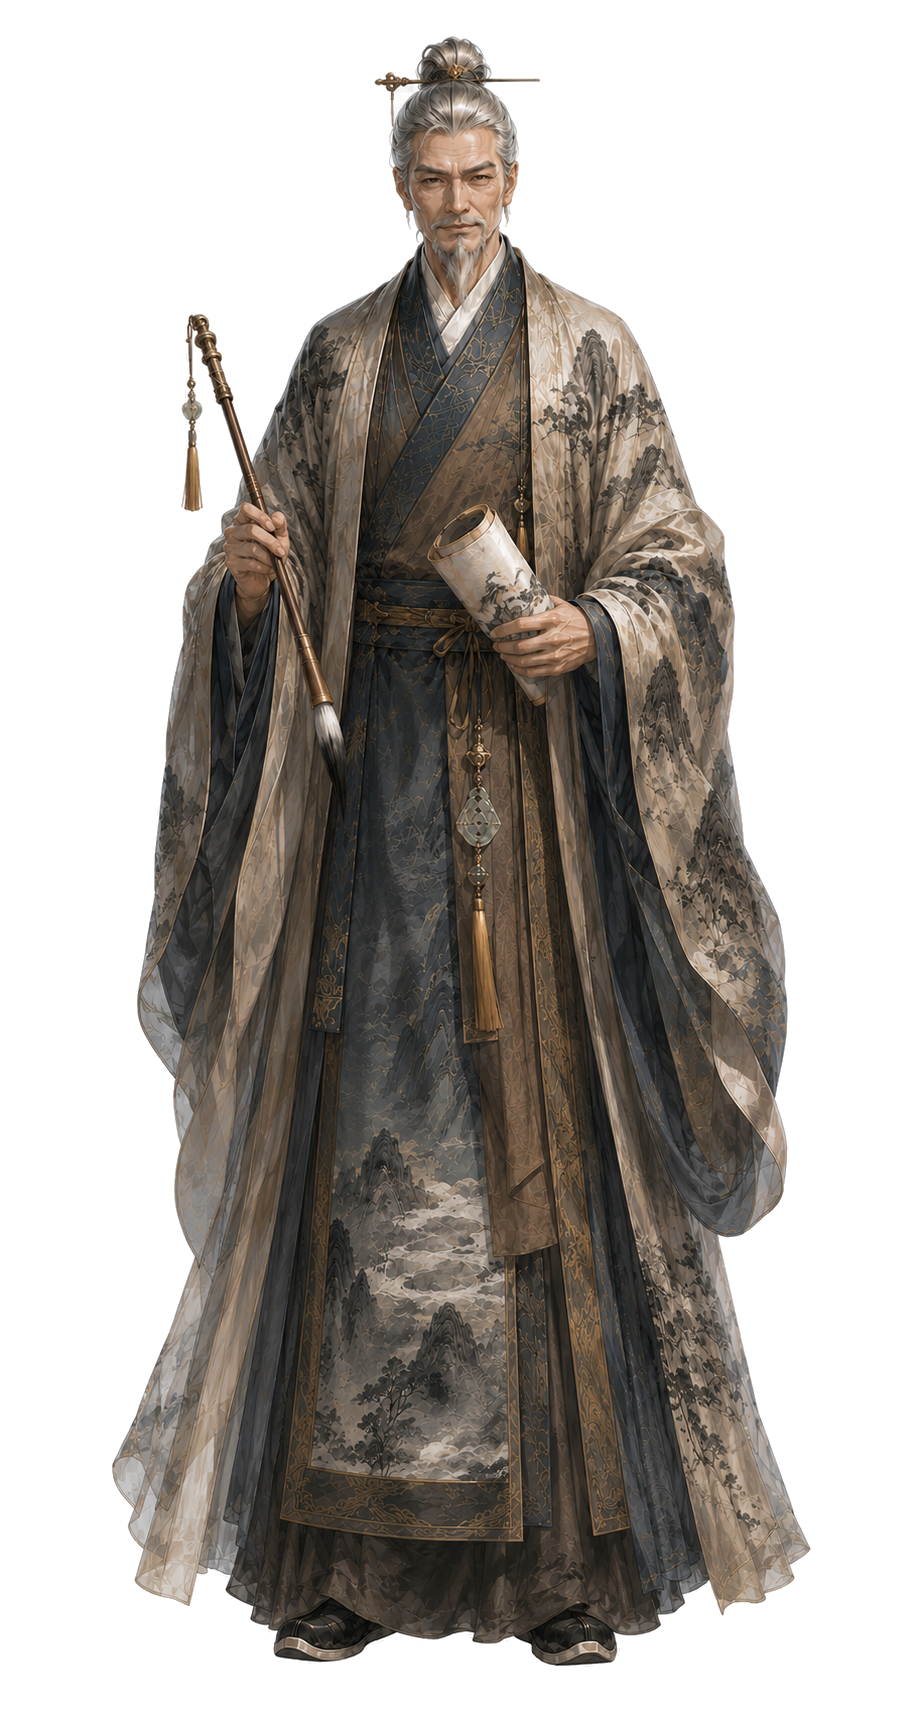
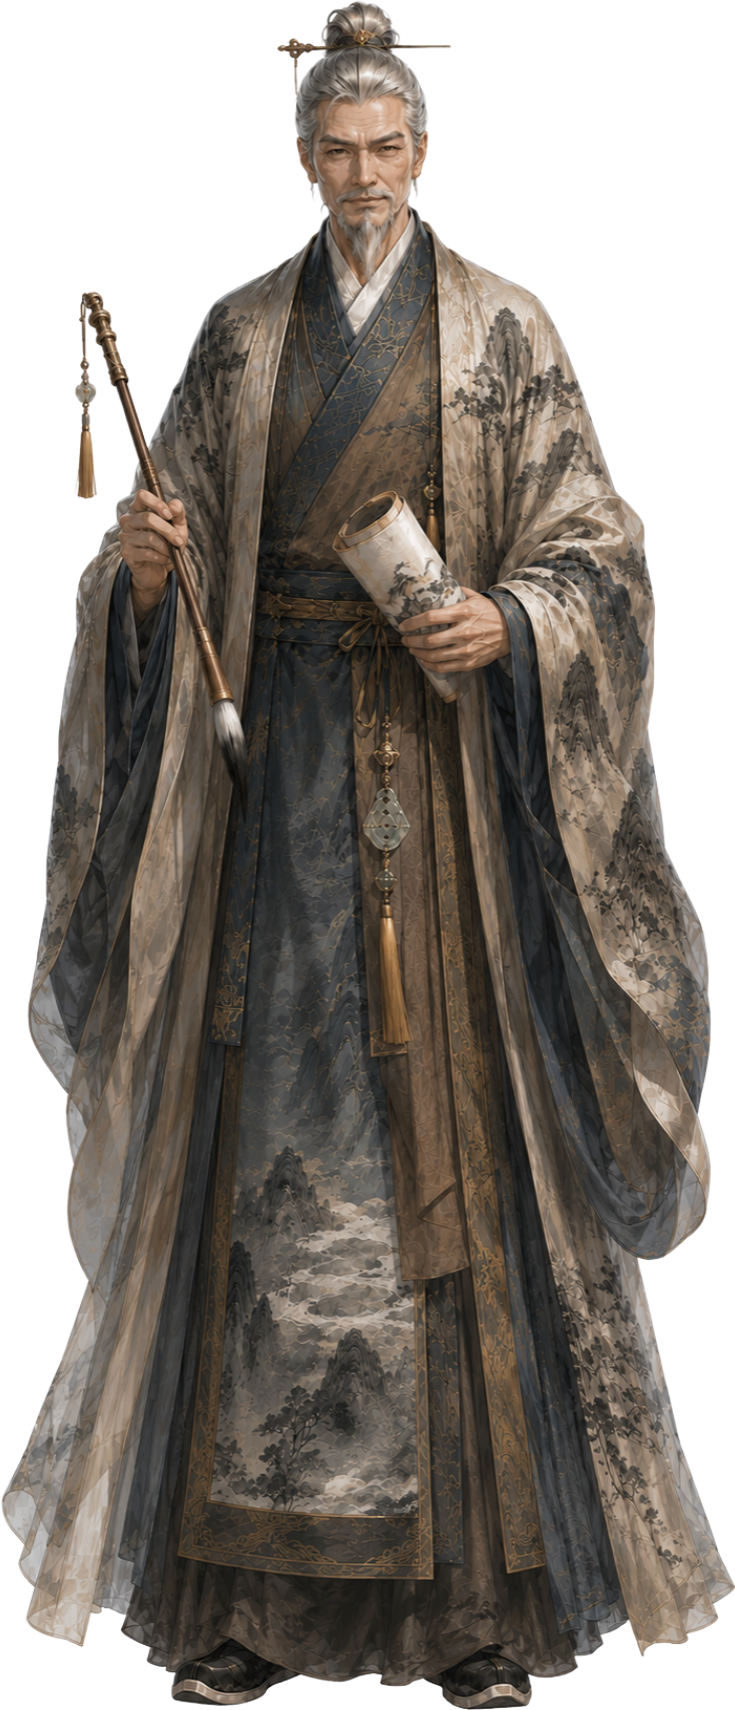
史实化名(宣和→宣合/汴京→大梁京全量+两prompt硬约束,scene v27/dialogue v13重启proxy)+引语页免责小字+李唐择端透明底全身像替换（2026-07-09）

diff --git a/workspaces/danqingyuan-mvp/src/content/tutorialScripts.ts b/workspaces/danqingyuan-mvp/src/content/tutorialScripts.ts
@@ -57,7 +57,7 @@ const MAJOR_MENTOR_FULL: Record<SkillId, string> = {
 const MAJOR_LINE_BY_STYLE: Record<SkillId, string> = {
   landscape: '你本科是山水，正是总教习李唐先生亲自带——好造化，戒尺也离得近，自己掂量。',
   figure: '你本科是人物，往后多在嵩先生跟前用功便是，他最看重肯下笨功夫的学子。',
-  architecture: '你本科是界画，择端先生为人随和，不懂只管问，他能从一根椽子讲到半座汴京。',
+  architecture: '你本科是界画，择端先生为人随和，不懂只管问，他能从一根椽子讲到半座大梁京。',
 };
 
 /** 入院小书童介绍：画院背景 → 作息课表 → 三导师 + 特招讲师希孟 → 入学目标 → 去排课表 */
@@ -73,7 +73,7 @@ function buildShutongAdmissionScript(styleOrigin: SkillId): GuideScript {
       '晨课的课业由你自排六日，呈给总教习过目。第七日是丹青试——考砸了，可没处哭去。',
       '教习有三位。总教习李唐先生，山水、画理都是他亲授，戒尺不认生人，课上别打瞌睡。',
       '人物课是嵩先生——一位中年画师，画人的功夫院里没几个及得上，眼睛毒得很。',
-      '界画课是择端先生，整日往街市跑，桥梁屋宇过目不忘，他课上能听见半个汴京的新鲜事。',
+      '界画课是择端先生，整日往街市跑，桥梁屋宇过目不忘，他课上能听见半个大梁京的新鲜事。',
       MAJOR_LINE_BY_STYLE[styleOrigin],
       '对了，院里还有位特招的讲师，唤作希孟。不授课，常独自待在书房画自己的画——等你去书房，兴许就遇上了。',
       '七日后丹青试见真章。想站稳脚跟，先把课表排明白——走，我领你去。',

diff --git a/workspaces/danqingyuan-mvp/src/components/ProloguePage.tsx b/workspaces/danqingyuan-mvp/src/components/ProloguePage.tsx
@@ -11,7 +11,7 @@ interface ProloguePageProps {
  * → 片尾定格 → 穿越引语逐行浮现落印。视频用用户手势解锁带声播放；引语背景用视频抽帧静帧。
  */
 const PROLOGUE_LINES = [
-  '宣和年间，汴京。',
+  '宣合年间，大梁京。',
   '后世传说中最繁华的盛世——也是史册不肯细说的前夜。',
   '你本是千年之后的人，一梦醒来，成了即将入院的丹青学生。',
   '心底却压着一桩说不清的悬念：这满城锦绣之下，仿佛有什么，正被悄悄抹去。',
@@ -143,6 +143,7 @@ export function ProloguePage({ onContinue }: ProloguePageProps) {
       <p className={`prologue-hint${verseDone ? ' prologue-hint-in' : ''}`}>
         {verseDone ? '点击继续 · 填写入院名录' : '点击跳过'}
       </p>
+      <p className="prologue-disclaimer">以古为幕，故事杜撰，仅供游玩消遣</p>
     </main>
   );
 }

diff --git a/workspaces/danqingyuan-mvp/src/app/App.tsx b/workspaces/danqingyuan-mvp/src/app/App.tsx
@@ -91,10 +91,10 @@ import '../styles/app.css';
 
 const llmAdapter = createLlmAdapter();
 
-const SCENE_PROMPT_VERSION = 'scene_narrator@2026-07-07.v26';
+const SCENE_PROMPT_VERSION = 'scene_narrator@2026-07-09.v27';
 const MAINLINE_PROMPT_VERSION = 'mainline_planner@2026-06-30.v2';
 /** 角色对白 prompt 版本（前后端须一致，2026-06-30 v7 加结局见希孟预热指引） */
-const DIALOGUE_PROMPT_VERSION = 'character_dialogue@2026-07-06.v12';
+const DIALOGUE_PROMPT_VERSION = 'character_dialogue@2026-07-09.v13';
 
 /** VN 逐句（2026-06-30）：取 LLM segments，无则把整段正文当一个旁白单元兜底 */
 function buildSegments(output: { segments?: SceneSegment[]; narrativeText: string }): SceneSegment[] {

diff --git a/workspaces/danqingyuan-mvp/src/engine/ambience.ts b/workspaces/danqingyuan-mvp/src/engine/ambience.ts
@@ -81,7 +81,7 @@ export function getWeatherLabel(day: number, weatherWeek?: string[]): string {
 
 /**
  * 「繁华与黑暗的交织」主题暗线节拍（按日递进）：
- * 表面是半架空的汴京繁华与人情味，底下逐日显出阴影与不公；后两日并隐隐透出亡国前奏。
+ * 表面是半架空的大梁京繁华与人情味，底下逐日显出阴影与不公；后两日并隐隐透出亡国前奏。
  * 写作器每场景至多轻点一笔，不得说破结论（尤其不得明说将要亡国/被外敌攻破）。
  * 半架空：可写"北边""花石的船""乡间的乱子"等，**不出现金/辽/徽宗/靖康等真实名号**。
  */

diff --git a/workspaces/danqingyuan-mvp/src/styles/app.css b/workspaces/danqingyuan-mvp/src/styles/app.css
@@ -4901,6 +4901,17 @@ dd {
   color: rgba(80, 58, 36, 0.75);
 }
 
+/* 底部免责小字（穿越引语页） */
+.prologue-disclaimer {
+  position: absolute;
+  bottom: 18px;
+  z-index: 1;
+  margin: 0;
+  font-size: 11px;
+  letter-spacing: 0.16em;
+  color: rgba(90, 68, 44, 0.55);
+}
+
 .prologue-seal {
   display: block;
   width: 66px;

diff --git a/workspaces/docs/plans/2026-07-09b-danqingyuan-v2-changelog.md b/workspaces/docs/plans/2026-07-09b-danqingyuan-v2-changelog.md
@@ -54,3 +54,9 @@
 1. **入院·小书童来迎页恢复原样**：明明不要卷轴迎帖版（书童偏左、卷轴偏右不平衡），AdmissionTransition + `.adm-transition-*` CSS 回退到原「居中卡片」版（书童全身像 + 标题 + 引文 + 随小书童入院按钮），删卷轴/入场动画/朱印相关。
 2. **入院引导弹窗（GuideDialogue）**：①首句去掉"诶——你就是今日新来的学子罢？"（保留"我是院里的小书童…"）；②介绍三位导师时**背景居中弹出对应导师全身立绘**（李唐/嵩/择端，不含希孟）——GuideScript 加 `lineImages`（行号→图），本科句(行7)按 styleOrigin 弹本科导师；GuideDialogue 渲染 `.gd-mentor`(垂直水平居中、框后、淡入)。导师全身立绘 litang/song/zeduan 拷入 public/char（litang/zeduan 原白底，flood-fill 从边缘去白保留内部衣袍，song 本就透明）。
 - 重验 build✅ + 三导师图 200。
+
+## 九、再追加（明明看图反馈四，同日）
+1. **史实化名**：`宣和`→`宣合`、`汴京`→`大梁京`，全量替换（ProloguePage 引语首句、tutorialScripts 两处、ambience 主题注释、scene_narrator prompt）；**两 prompt 加化名硬约束**（scene_narrator + character_dialogue：年号写宣合/京城写大梁京，禁"宣和""汴京"真名）。prompt 升版 scene v26→**v27**、dialogue v12→**v13**（前后端常量同步），**已重启 proxy**（health 200）。
+2. **引语页底部**加免责小字「以古为幕，故事杜撰，仅供游玩消遣」(`.prologue-disclaimer`)。
+3. **李唐/择端全身立绘**：明明重导透明底新版，重拷覆盖 public/char（四角 alpha=0，无需再抠；灰底预览确认干净）。
+- 重验 build✅ + 残留 汴京/宣和 仅剩两 prompt 的"禁用"约束句本身。

diff --git a/workspaces/danqingyuan-mvp/server/prompts/character_dialogue.md b/workspaces/danqingyuan-mvp/server/prompts/character_dialogue.md
@@ -1,5 +1,5 @@
 <!-- prompt-role: character_dialogue -->
-<!-- prompt-version: character_dialogue@2026-07-06.v12 -->
+<!-- prompt-version: character_dialogue@2026-07-09.v13 -->
 
 # 丹青院角色对白 Prompt
 
@@ -12,6 +12,7 @@
 - **希孟明面上在画《千里江山卷》**（青绿山水长卷，要进献宫里、呈盛世气象，原型《千里江山图》）——这是人人皆知、可以公开谈的事。**背地里他还参与《骸游图》**（见下），这一层讳莫如深。
 - 《骸游图》=希孟、择端、李唐、嵩**四人共创、分工不同**（有人执笔、有人只定立意），画盛世底下的疮痍。**不得说成某一人独作**；**真相揭开前（第七日日终之前）不得点破"四人共创"这件事**，至多由知情者言外暗示。
 - 严禁坐实希孟未来会消失的原因、严禁点明《骸游图》"进献警戒危局"的目的、严禁揭终局真相——这些只可作言外之意、欲言又止的钩子。
+- **朝代/地名用化名**：若提及年号写「宣合」、京城写「大梁京」（或"京城""都城"），**绝不出现"宣和""汴京"等真实名号**。
 
 ## 希孟谈话分档（好感软线索）
 
